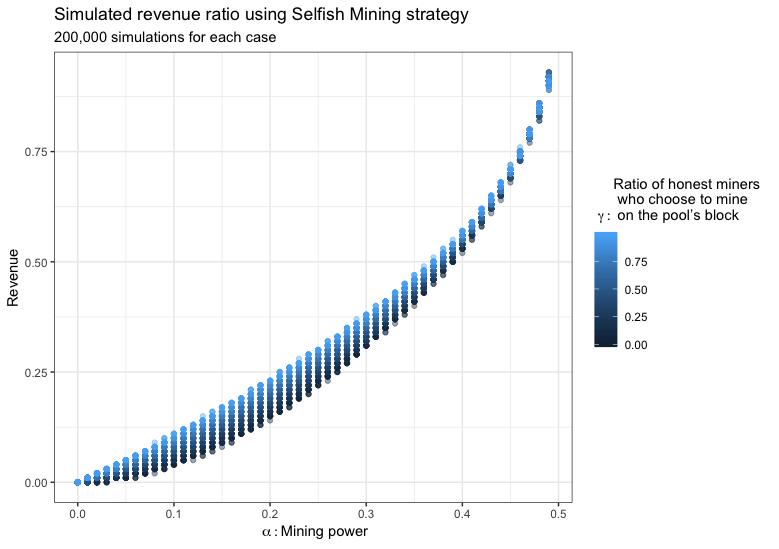
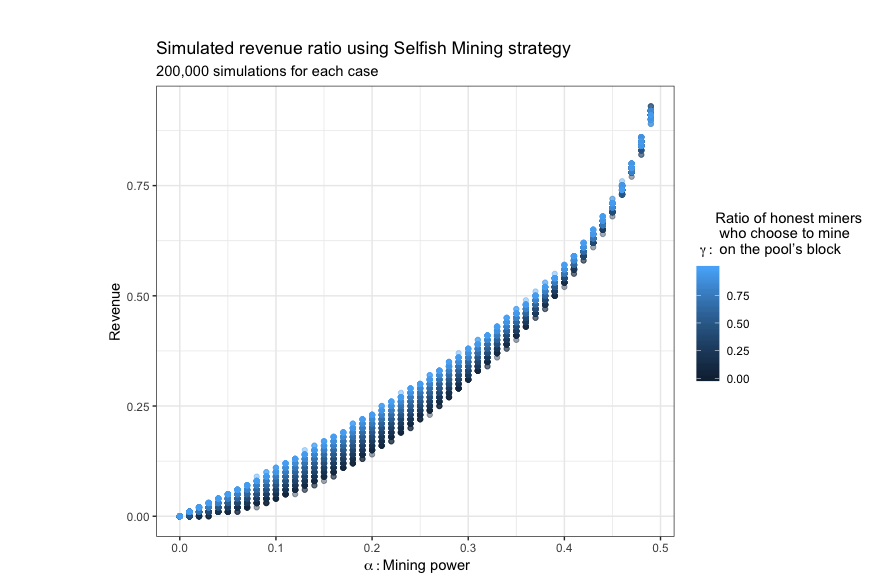
README changes

diff --git a/README.md b/README.md
@@ -68,6 +68,4 @@ It is also possible to track progress for each simulation, as shown in [simulato
 
 Finally, I created a table for multiple **gamma** and **alpha** combinations with a sufficiently high number of simulations (200,000), here are the plotted results that show when is Selfish Mining a profitable strategy.
 
-----
-
 ![selfish mining graph](./img/selfish_mining_result.png)
